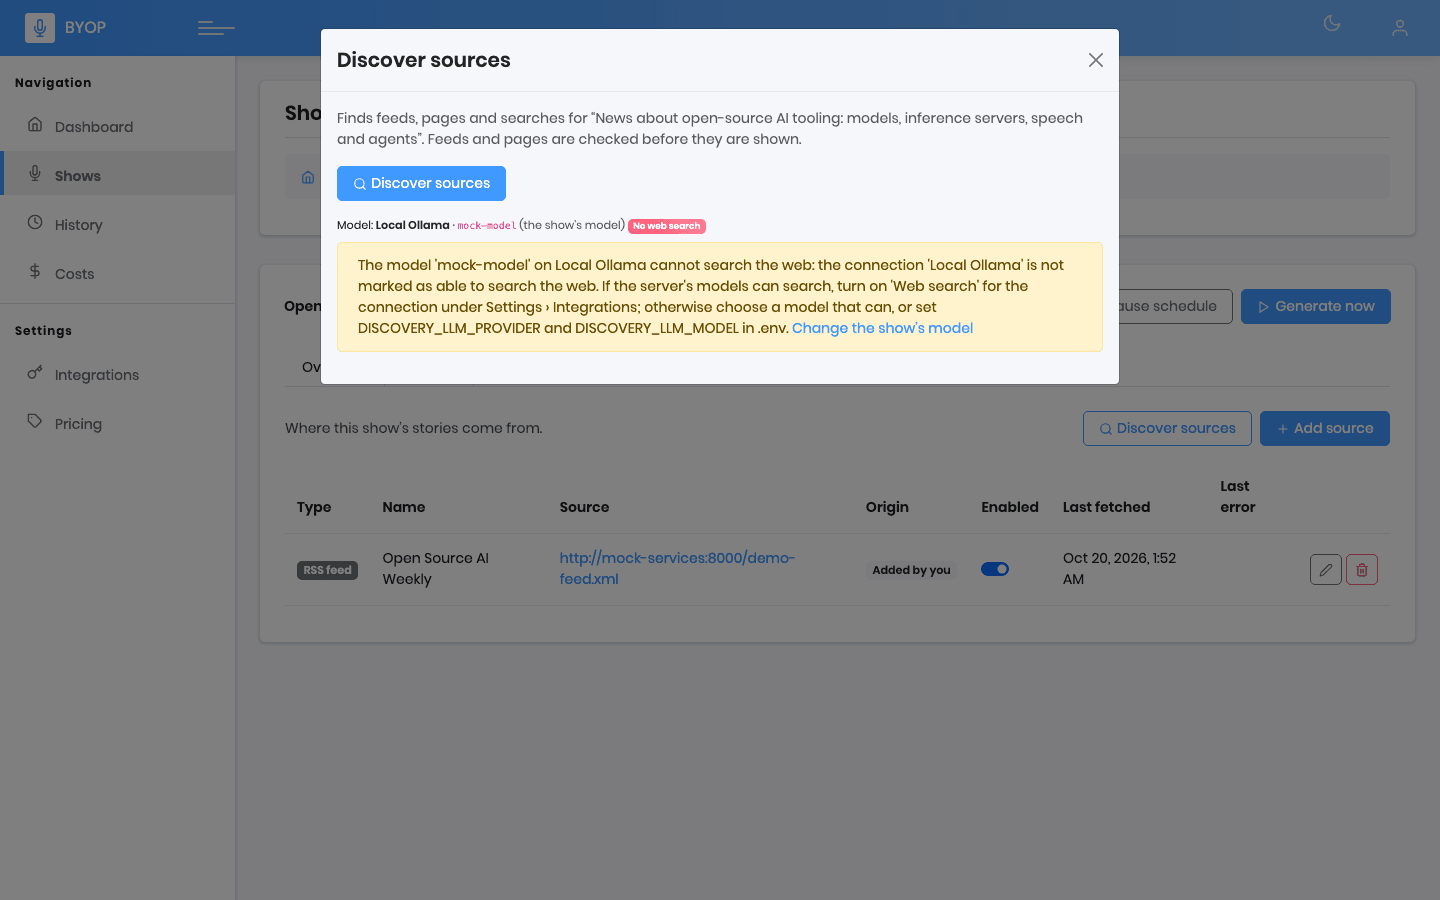
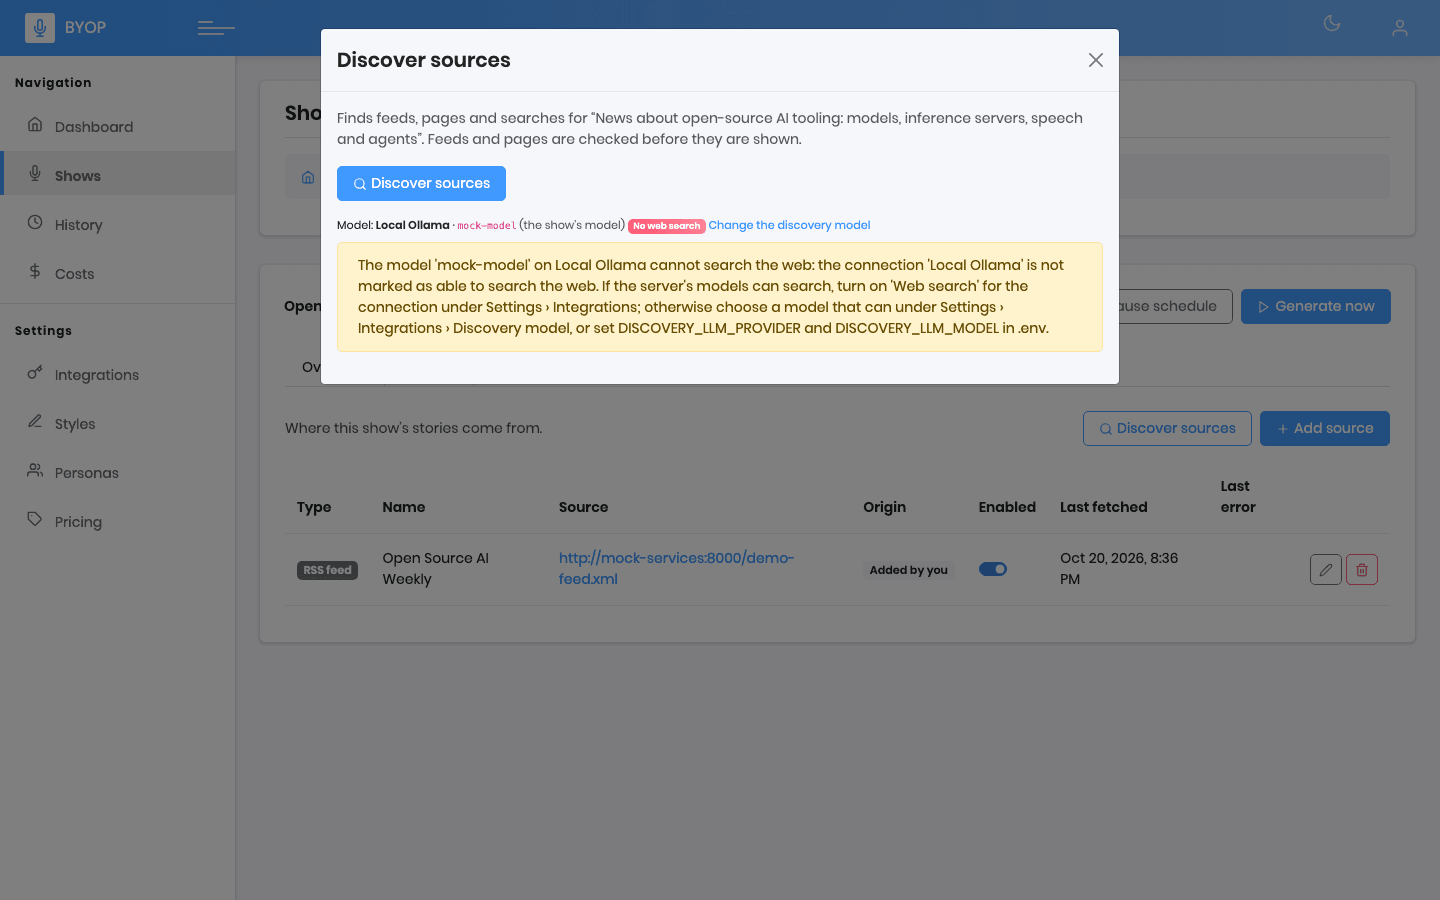
docs: describe styles, personas, voice models, delays and the discovery model
The README and docs cover the v0.2 features of #42-#47: a README section on styles,
personas, Design with AI and the voice model with four new pictures, the discovery
model card, a table of the settings kept in the app instead of .env, and
the changelog.

make screenshots now also takes Settings > Styles, Settings > Personas, the Design
with AI dialog, the Voice model dropdown and the Discovery model card from the demo
stack (every picture is under 60 kB, no keys or personal data). The mock server
answers Design with AI prompts and lists speech models for a voice-named host, and
the end-to-end test gets a short styles/personas/Design with AI step.

Closes #48

Claude-Session: https://claude.ai/code/session_01S3k4WY1zQYGtHaLQ4BEh8f

diff --git a/tests/e2e/screenshots.spec.ts b/tests/e2e/screenshots.spec.ts
@@ -21,6 +21,12 @@ async function shot(page: Page, name: string): Promise<void> {
   await page.screenshot({ path: `${SHOTS ?? '.'}/${name}.png` });
 }
 
+/** Open a searchable dropdown by its label and click the option. */
+async function pickOption(page: Page, label: string, option: string): Promise<void> {
+  await page.getByLabel(label, { exact: true }).first().click();
+  await page.getByRole('option', { name: option }).click();
+}
+
 async function signIn(page: Page): Promise<void> {
   await page.goto('/login');
   await page.getByPlaceholder('Email address').fill(EMAIL);
@@ -70,6 +76,8 @@ test('regenerates the documentation images', async ({ page }) => {
     api_key: 'sk-demo-studio-key-0000',
     llm: false,
     tts: true,
+    // A server with a low rate limit: BYOP waits between requests (shown on its card).
+    min_interval_s: 2,
   });
   const price = await api.put('/api/pricing/overrides', {
     data: { kind: 'llm', name: 'mock-model', input_per_million: '0.15', output_per_million: '0.6' },
@@ -169,6 +177,93 @@ test('regenerates the documentation images', async ({ page }) => {
   await expect(dialog.getByTestId('discovery-model')).toContainText('No web search');
   await page.waitForTimeout(600); // the dialog's fade-in
   await shot(page, 'discovery');
+
+  // v0.2: the voice model, chosen before the voice (this server lists the speech models it has).
+  await page.goto('/shows/new');
+  await page.getByLabel('Title').fill('Rust Weekly');
+  await page.getByLabel('Topic').fill('News about the Rust language and its ecosystem.');
+  await page.getByRole('button', { name: 'Next' }).click();
+  await pickOption(page, 'Voice provider', 'Studio voices');
+  await page.getByLabel('Voice model', { exact: true }).first().click();
+  await expect(page.getByRole('option', { name: 'xtts-v2' })).toBeVisible();
+  await page.evaluate(() => window.scrollBy(0, 120));
+  await shot(page, 'voice-model');
+  await page.keyboard.press('Escape');
+
+  // v0.2: the discovery model, chosen in Settings (a gateway that can search the web).
+  const gateway = await post<{ id: string }>(api, '/api/connections', {
+    name: 'Search gateway',
+    base_url: MODEL_URL,
+    llm: true,
+    web_search: true,
+  });
+  const saved = await api.put('/api/settings/discovery-model', {
+    data: { provider: `conn:${gateway.id}`, model: 'sonar' },
+  });
+  expect(saved.ok(), await saved.text()).toBe(true);
+  await page.goto('/settings/integrations#discovery');
+  const card = page.locator('#discovery');
+  await expect(card.getByTestId('discovery-effective')).toContainText('chosen here');
+  await expect(card.getByTestId('discovery-effective')).toContainText('Web search');
+  await expect(page.locator('.toast')).toHaveCount(0);
+  await card.screenshot({ path: `${SHOTS ?? '.'}/discovery-model.png` });
+
+  // v0.2: styles. Two of your own next to the built-in ones, whose instructions can be read.
+  await post(api, '/api/styles', {
+    name: 'Late-night radio',
+    description: 'Slow, warm and unhurried: company for people who cannot sleep.',
+    instructions:
+      'The episode feels like a late-night radio programme with nothing to rush for. Open slowly, with a quiet remark about the hour, and tell each story in plain, unhurried words. Close gently, with one thought to fall asleep to.',
+  });
+  await post(api, '/api/styles', {
+    name: 'Conversational, but brisk',
+    description: 'A copy of Conversational, shortened to move faster.',
+    instructions:
+      'The episode feels like friends talking about what happened this week, but it keeps moving: open with one line of banter, give each story two or three exchanges, and close with a single takeaway.',
+  });
+  await page.goto('/settings/styles');
+  await page
+    .getByRole('article', { name: 'Conversational', exact: true })
+    .getByRole('button', { name: 'View instructions' })
+    .click();
+  await expect(page.getByTestId('instructions')).toBeVisible();
+  await expect(page.getByRole('article', { name: 'Late-night radio' })).toBeVisible();
+  await page.mouse.move(0, 0);
+  await shot(page, 'styles');
+
+  // v0.2: personas. The starters, one of your own with a default voice, and "Design with AI".
+  await post(api, '/api/personas', {
+    name: 'Night owl',
+    persona:
+      'The night owl. Quiet and warm; speaks slowly, loves a small detail and never raises their voice.',
+    tts_provider: 'kokoro',
+    voice_id: 'af_heart',
+  });
+  await page.goto('/settings/personas');
+  await expect(page.getByRole('article', { name: 'Night owl' })).toBeVisible();
+  await expect(page.getByTestId('persona-voice').first()).toBeVisible();
+  await page.mouse.move(0, 0);
+  await shot(page, 'personas');
+
+  await page.getByRole('button', { name: /Add persona/ }).click();
+  await page.getByRole('button', { name: /Design with AI/ }).click();
+  const designer = page.getByRole('dialog').filter({ hasText: 'Design a persona with AI' });
+  await designer
+    .getByLabel('What do you want?')
+    .fill('A dry, well-read sceptic who likes numbers and hates hype.');
+  await designer.getByLabel('Model (optional)').click();
+  await page.getByRole('option', { name: 'Local Ollama' }).click();
+  await designer.getByLabel('Model', { exact: true }).click();
+  await page.getByRole('option', { name: /mock-model/ }).click();
+  await page.waitForTimeout(600); // the dialog's fade-in
+  // Just the dialog: behind it is the persona editor it was opened from.
+  await designer.locator('.modal-content').screenshot({
+    path: `${SHOTS ?? '.'}/design-with-ai.png`,
+  });
+  await designer.getByRole('button', { name: 'Generate' }).click();
+  await expect(designer).toBeHidden();
+  await expect(page.getByLabel('Persona', { exact: true })).toHaveValue(/deadpan/);
+  await page.getByRole('dialog').getByRole('button', { name: 'Cancel' }).click();
 
   // One picture in the dark theme.
   await page.goto('/');

diff --git a/tests/e2e/byop.spec.ts b/tests/e2e/byop.spec.ts
@@ -123,6 +123,31 @@ test('a clean install makes a published episode that is in the feed', async ({ p
   await page.getByRole('link', { name: 'E2E Briefing' }).first().click();
   await expect(page.getByLabel('Feed address')).toBeVisible();
 
+  // 6b. Styles and personas: duplicate a built-in style, and design a persona with the mock model.
+  await page.goto('/settings/styles');
+  const conversational = page.getByRole('article', { name: 'Conversational' });
+  await conversational.getByRole('button', { name: 'View instructions' }).click();
+  await expect(conversational.getByTestId('instructions')).toContainText('friends talking');
+  await conversational.getByRole('button', { name: 'Duplicate' }).click();
+  await page.getByRole('dialog').getByRole('button', { name: 'Save' }).click();
+  await expect(page.getByRole('article', { name: 'Conversational (copy)' })).toBeVisible();
+
+  await page.goto('/settings/personas');
+  await expect(page.getByRole('article', { name: 'Curious host' })).toBeVisible(); // a starter
+  await page.getByRole('button', { name: /Add persona/ }).click();
+  await page.getByRole('button', { name: /Design with AI/ }).click();
+  const designer = page.getByRole('dialog').filter({ hasText: 'Design a persona with AI' });
+  await designer.getByLabel('What do you want?').fill('A dry sceptic who likes numbers');
+  await designer.getByLabel('Model (optional)').click();
+  await page.getByRole('option', { name: 'Mock model' }).click();
+  await designer.getByLabel('Model', { exact: true }).click();
+  await page.getByRole('option', { name: /mock-model/ }).click();
+  await designer.getByRole('button', { name: 'Generate' }).click();
+  await expect(designer).toBeHidden();
+  await expect(page.getByLabel('Persona', { exact: true })).toHaveValue(/deadpan/);
+  await page.getByRole('dialog').getByRole('button', { name: 'Save' }).click();
+  await expect(page.getByRole('article', { name: 'Dry numbers sceptic' })).toBeVisible();
+
   // 7. The security headers are on, and nothing the app needed was blocked by them.
   const home = await request.get('/');
   const headers = home.headers();

diff --git a/tests/e2e/mock_llm/app.py b/tests/e2e/mock_llm/app.py
@@ -1,8 +1,8 @@
 """Stand-ins for everything BYOP talks to over the network in the end-to-end test, so the full
 product can run in CI without paid keys or a GPU:
 
-* an OpenAI-compatible chat API (`/v1/chat/completions`, `/v1/models`) that answers the ranking and
-  script prompts with canned but valid JSON built from what the prompt says;
+* an OpenAI-compatible chat API (`/v1/chat/completions`, `/v1/models`) that answers the ranking,
+  script and "Design with AI" prompts with canned but valid JSON built from what the prompt says;
 * a Kokoro-style speech API (`/v1/audio/speech`, `/v1/audio/voices`) that returns a short tone
   whose length follows the text;
 * a small news feed (`/feed.xml`) with a few articles, and a fuller one (`/demo-feed.xml`) that the
@@ -173,8 +173,12 @@ async def chat(request: Request) -> dict[str, object]:
     body = await request.json()
     messages = body.get("messages", [])
     prompt = "\n".join(str(m.get("content", "")) for m in messages if m.get("role") == "user")
-    if "Choose the" in prompt and "best stories" in prompt:
-        answer: dict[str, object] = _ranking(prompt)
+    if "design a show style" in prompt:
+        answer: dict[str, object] = STYLE_DRAFT
+    elif "create a speaker persona" in prompt:
+        answer = PERSONA_DRAFT
+    elif "Choose the" in prompt and "best stories" in prompt:
+        answer = _ranking(prompt)
     elif "script writer" in json.dumps(messages) or "## The speakers" in prompt:
         answer = _script(prompt)
     else:
@@ -196,9 +200,38 @@ async def chat(request: Request) -> dict[str, object]:
     }
 
 
+# What "Design with AI" is answered with (see docs/shows.md): a style and a persona, as the real
+# thing would draft them for the sentence the documentation screenshots type in.
+STYLE_DRAFT: dict[str, object] = {
+    "name": "Late-night radio",
+    "description": "Slow, warm and unhurried: company for people who cannot sleep.",
+    "instructions": (
+        "The episode feels like a late-night radio programme with nothing to rush for. Open slowly, "
+        "with a quiet remark about the hour and a light hint of what is coming. Tell each story in "
+        "plain, unhurried words; the other speaker answers with a soft reflection or a small piece "
+        "of context. Avoid exclamations, urgency and hype. Link stories with a calm pause rather "
+        "than an announcement, and close gently, with one thought to fall asleep to."
+    ),
+}
+PERSONA_DRAFT: dict[str, object] = {
+    "name": "Dry numbers sceptic",
+    "persona": (
+        "The resident sceptic. Dry, understated and well read; asks what the numbers actually say "
+        "and answers grand claims with a deadpan remark rather than a rant. Contributes the sober "
+        "counterweight to the other speakers' enthusiasm."
+    ),
+}
+
+SPEECH_MODELS = ["kokoro", "kokoro-v1.0", "xtts-v2", "piper-en-us"]
+
+
 @app.get("/v1/models")
-async def models() -> dict[str, object]:
-    return {"object": "list", "data": [{"id": "mock-model", "object": "model", "owned_by": "mock"}]}
+async def models(request: Request) -> dict[str, object]:
+    # A server reached under a voice-ish name (the documentation screenshots use `kokoro-gateway`)
+    # lists speech models; any other lists the one language model.
+    host = request.headers.get("host", "")
+    ids = SPEECH_MODELS if host.startswith("kokoro") else ["mock-model"]
+    return {"object": "list", "data": [{"id": i, "object": "model", "owned_by": "mock"} for i in ids]}
 
 
 # --- speech --------------------------------------------------------------------------------------

diff --git a/README.md b/README.md
@@ -11,13 +11,16 @@ control of your data.
 
 ## What you get
 
-- **Shows** with a topic, a style (news briefing, conversational, deep dive, interview), a schedule
-  and a cast of named speakers, each with their own voice.
+- **Shows** with a topic, a [style](docs/shows.md#styles) (four built-in ones you can read and
+  copy, or your own), a schedule and a cast of named speakers, each with their own voice and a
+  [persona](docs/shows.md#persona-library) from your library.
 - **Sources:** RSS feeds, web pages and web-search queries, found for you from just a topic, or
   hand-picked. Stories are collected, de-duplicated and ranked; the best ones are covered.
 - **Scripts** written by the model of your choice as a natural dialogue between your speakers.
-- **Voices** from OpenAI, ElevenLabs, OpenRouter or local Kokoro, mixed with ffmpeg: gaps,
-  intro/outro, a music bed, -16 LUFS loudness.
+- **Voices** from OpenAI, ElevenLabs, OpenRouter or local Kokoro, with the speech model chosen
+  from a list, mixed with ffmpeg: gaps, intro/outro, a music bed, -16 LUFS loudness.
+- **Design with AI:** describe a style or a persona in a sentence and edit the draft before you
+  save it ([how](docs/shows.md#design-with-ai)).
 - **Review before you publish:** edit the script, re-voice it, approve or reject. Or auto-publish.
 - **A public RSS feed** that works in Apple Podcasts, Spotify, Pocket Casts and every other app.
 - **On a schedule:** daily, weekly or monthly, in your time zone, with pause and catch-up.
@@ -32,12 +35,30 @@ control of your data.
 | --- | --- |
 | ![Costs: tiles, spend per month and per provider](docs/images/costs.png) | ![A show: topic, model, schedule, speakers and its podcast feed](docs/images/show.png) |
 
+### Styles, personas and AI help
+
+**Settings › Styles** shows exactly what each built-in style tells the model; duplicate one to make
+it yours, or write a new one. **Settings › Personas** keeps speakers you reuse (with a default
+voice), and every user starts with five. In a show's Speakers step, *From library* fills a speaker
+in, and a *Voice model* list sits between the provider and the voice. *Design with AI* drafts a
+style or persona from a sentence; nothing is saved until you save it.
+
+| Styles: built-in and your own | Personas: five starters and your own |
+| --- | --- |
+| ![Settings, Styles: two custom styles and the four built-in ones, with the instructions of Conversational shown](docs/images/styles.png) | ![Settings, Personas: starter personas and a custom one with a default voice](docs/images/personas.png) |
+
+| Design with AI | Choosing the voice model |
+| --- | --- |
+| ![The Design with AI dialog: a sentence about the persona and the model that drafts it](docs/images/design-with-ai.png) | ![The Voice model dropdown of a speaker, listing the speech models of the voice server](docs/images/voice-model.png) |
+
 ### Your own servers, and searchable dropdowns
 
 Add any number of OpenAI-compatible endpoints (Ollama, vLLM, a gateway, a second Kokoro) as
 [connections](docs/providers.md#connections-any-openai-compatible-server), each for models, voices
-or both, with the headers it needs. Every dropdown can be searched by typing, in light and dark
-mode, and source discovery tells you up front when a model cannot search the web.
+or both, with the headers it needs and, for servers with low rate limits, a wait between requests.
+Every dropdown can be searched by typing, in light and dark mode, and source discovery tells you up
+front when a model cannot search the web; the model that does the searching is chosen in Settings
+(*Discovery model*).
 
 | Connections | Editing one: key and custom headers stay masked |
 | --- | --- |
@@ -46,6 +67,8 @@ mode, and source discovery tells you up front when a model cannot search the web
 | A searchable dropdown | Discovery checks the model first |
 | --- | --- |
 | ![The voice dropdown of the create-show wizard, open, with language and gender per voice](docs/images/dropdown.png) | ![The Discover sources dialog warning that the show's model cannot search the web](docs/images/discovery.png) |
+
+![Settings, Integrations: the Discovery model card, choosing the model that searches the web for sources](docs/images/discovery-model.png)
 
 ![The dashboard in dark mode](docs/images/dashboard-dark.png)
 

diff --git a/docs/configuration.md b/docs/configuration.md
@@ -79,8 +79,22 @@ connection under Settings › Integrations ([providers](providers.md#connections
 | Variable | Default | |
 | --- | --- | --- |
 | `DEFAULT_LLM_PROVIDER`, `DEFAULT_LLM_MODEL` | empty | Model given to a new show that does not choose its own (used only as a pair; `openrouter`, `openai` or `conn:<id>` of a connection) |
-| `DEFAULT_SHOW_STYLE` | `news_briefing` | `news_briefing`, `conversational`, `deep_dive` or `interview` |
+| `DEFAULT_SHOW_STYLE` | `news_briefing` | `news_briefing`, `conversational`, `deep_dive` or `interview`. Your own styles ([shows](shows.md#styles)) are chosen per show in the app, not here |
 | `DISCOVERY_LLM_PROVIDER`, `DISCOVERY_LLM_MODEL` | empty | The model that searches the web for sources; empty uses the show's model, then the default above. A model chosen under Settings › Integrations › Discovery model comes first. On OpenRouter `:online` is added to the model id. The Discover dialog shows which model is used and whether it can search ([sources](sources.md#can-the-model-search)). `openrouter` with `perplexity/sonar` is a good choice |
+
+## Settings you change in the app instead
+
+Some choices are not environment variables but live in the database, per user, and take precedence
+over `.env` where both exist:
+
+| Where | What | Docs |
+| --- | --- | --- |
+| Settings › Integrations | provider keys (override the `*_API_KEY` values), a **wait between requests** per provider | [providers](providers.md#rate-limits-wait-between-requests) |
+| Settings › Integrations › connections | OpenAI-compatible servers, with headers and their own wait | [providers](providers.md#connections-any-openai-compatible-server) |
+| Settings › Integrations › Discovery model | the model that searches for sources (before `DISCOVERY_LLM_*`) | [sources](sources.md#the-discovery-model-settings) |
+| Settings › Styles | your own show styles; the built-in ones can be read and copied | [shows](shows.md#styles) |
+| Settings › Personas | reusable speaker personas, with a default voice | [shows](shows.md#persona-library) |
+| Settings › Pricing | prices for models and voices the price table lacks | [costs](costs.md) |
 
 ## Public routes
 

diff --git a/CHANGELOG.md b/CHANGELOG.md
@@ -9,6 +9,11 @@ heading with the date (see [docs/releasing.md](docs/releasing.md)).
 
 ### Added
 
+- **Documentation:** the README and the docs describe styles, personas, Design with AI, the voice
+  model, the wait between requests and the discovery model; `make screenshots` takes pictures of
+  them (Styles, Personas, the Design with AI dialog, the Voice model dropdown, the Discovery model
+  card).
+
 - **Discovery model in Settings:** choose the model that searches the web for sources under
   Settings › Integrations › Discovery model. It takes precedence over `DISCOVERY_LLM_*`, the show's
   model and the instance default, is checked for web search when saved, and is used by the Discover
